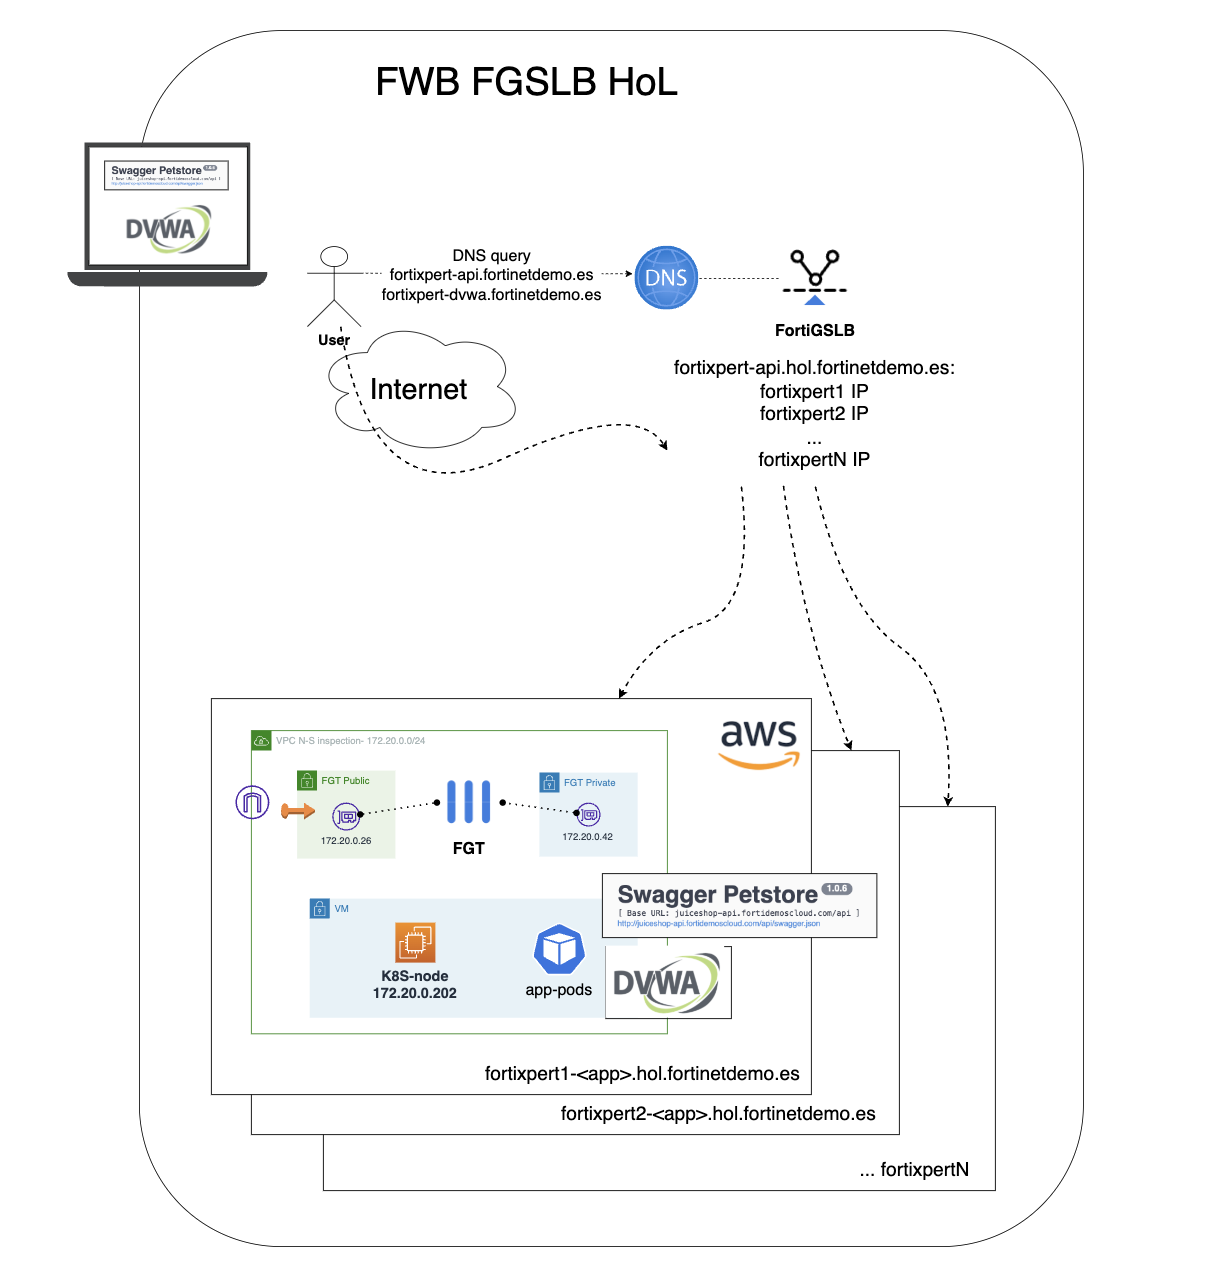
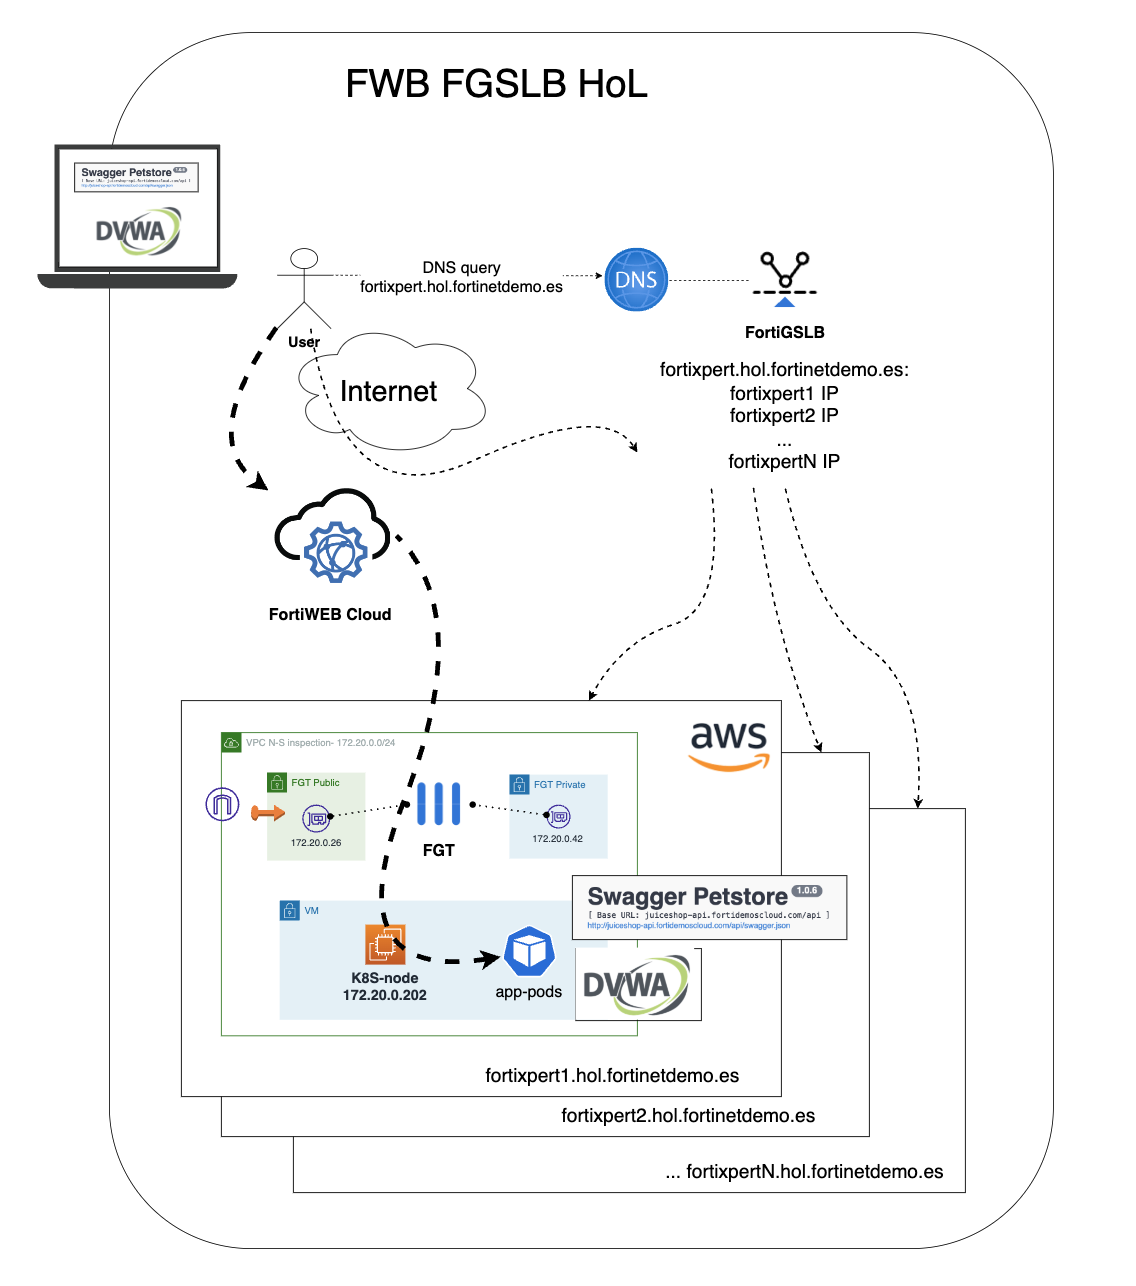
update T2 guide

diff --git a/T2_fortigslb/README.md b/T2_fortigslb/README.md
@@ -24,7 +24,6 @@ En este entrenamiento realizaremos lo siguiente:
 
 ![architecture overview](images/image0.png)
 
-
 # LAB
 ## Pasos a seguir:
 
@@ -112,7 +111,7 @@ Puedes consultar esta configuraicón desde el menú del izquierda en `GSLB Servi
 
 ## 5. Comprobar resolución DNS
 
-- Desde la consola de Cloud9 o desde vuestro PC podeis lanzar una consulta DNS para el FQDN `students.cloudlab.xpersummit-es.com` para comprobar las IPs resueltas. 
+- Se puede lanzar la consulta DNS para el FQDN `fortixpert.hol.fortinetdemo.es` para comprobar las IPs resueltas. 
 
 - Para lanzar la consulta directamente a FortiGSLB, es posible consultar directamente a nuestra instancia FortiGSLB por su IP anycast. 
 
@@ -126,10 +125,7 @@ dig @75.2.49.209 fortixpert.hol.fortinetdemo.es
 
 ## Laboratorio completado
 
-## Support
+# Support
 This a personal repository with goal of testing and demo Fortinet solutions on the Cloud. No support is provided and must be used by your own responsability. Cloud Providers will charge for this deployments, please take it in count before proceed.
-
-## License
-Based on Fortinet repositories with original [License](https://github.com/fortinet/fortigate-terraform-deploy/blob/master/LICENSE) © Fortinet Technologies. All rights reserved.
 
 
